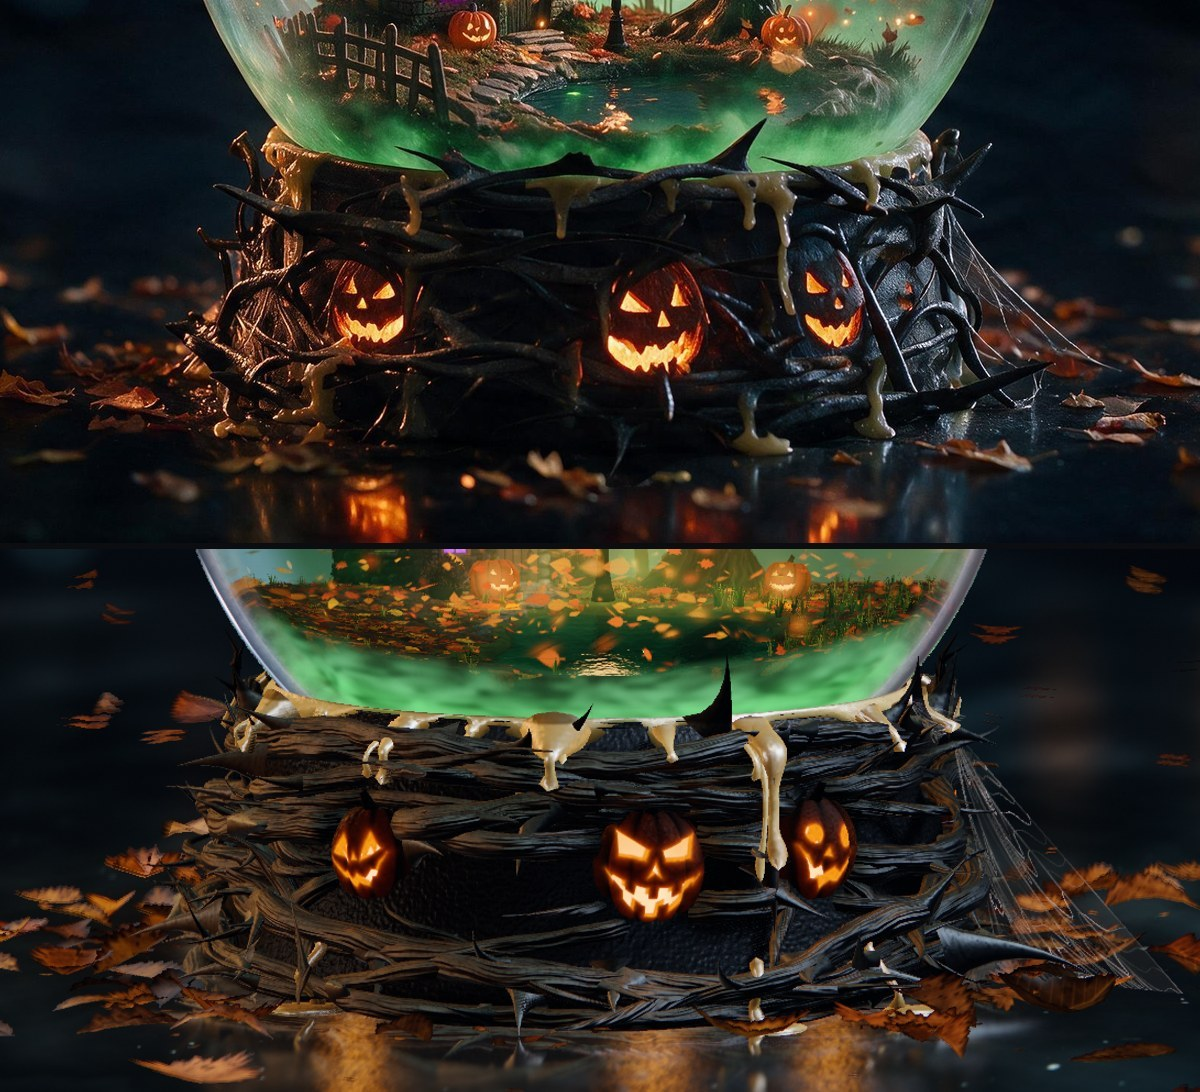
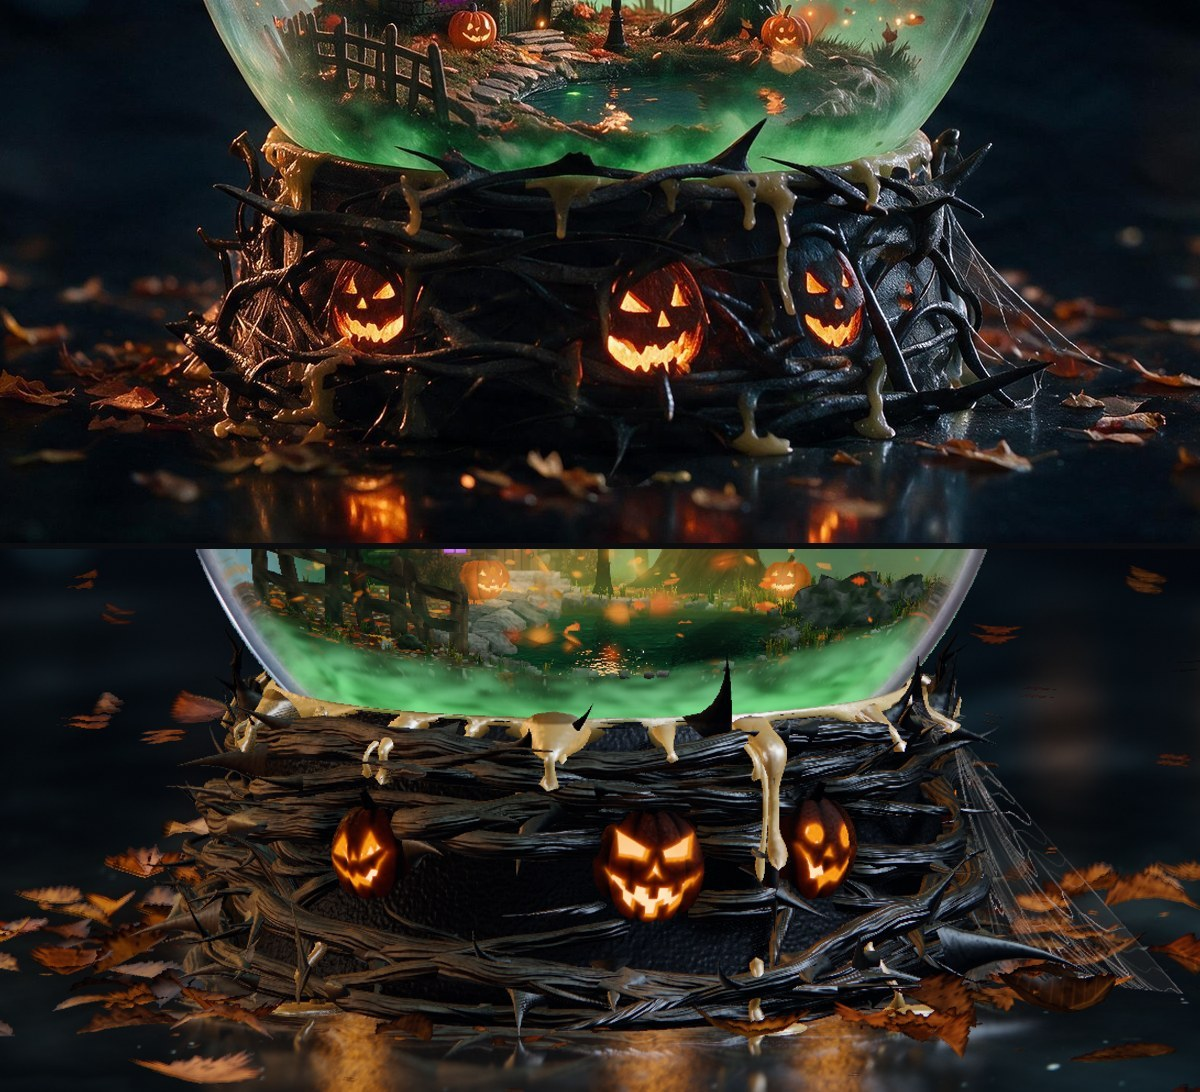
Looks, REPORT.md and HANDOVER.md at 0e36e95

diff --git a/REPORT.md b/REPORT.md
@@ -1,6 +1,6 @@
-# REPORT: fall base and slab (fall_base2), 05:33 UTC
+# REPORT: fall base and slab (fall_base2), 05:47 UTC
 
-Branch `agent/p4-fall_base2`, last commit **a0e301d** (pushed 05:21). In the freeze of 05:20: **15ecc57**. Looks branch `agent/p4-fall_base2-looks`.
+Branch `agent/p4-fall_base2`, last commit **0e36e95** (pushed 05:44; holds 9d9cfbe and a merge of origin/main). In the freeze of 05:20: **15ecc57**; a0e301d and 9d9cfbe came after it. Looks branch `agent/p4-fall_base2-looks`.
 Make targets, in order: `npm run make -- base-fall`, `npm run make -- slab-fall`, `npm run texpack`, `npm run build`.
 
 No stand-ins and no fallbacks in my files. No generated picture, no outside file: everything in `base-fall` and `slab-fall` is made by the scripts in `assets-src/`, so there are no rows for `ASSETS.md`.
@@ -13,7 +13,7 @@ One fault: merge commit 15ecc57 carries git's default message without the `Co-au
 | Jury: three faces look like copies | fixed: four carvings, own turn, ribs, glow | 2b9d7f0 |
 | R1 #12 / R3-1 #7 / R3-2 #7 pumpkins: bright, bevel, deep cuts, bounce | fixed for brightness, bevel and cuts; bounce on branches raised (`baseCandle 3.6`) but not judged closely | 2b9d7f0, 69cf1fd |
 | R1 #11 regular weave, loops | fixed: straight level branches behind the pumpkins | 69cf1fd, 838c64f |
-| Jury "smooth tubular vines" | fixed in part: fibrous bark; now reads brown-grey and level, see open 1 | e7ab0b5 (in freeze), a0e301d (after) |
+| Jury "smooth tubular vines" | fixed in part: fibrous bark (in freeze), then darker with a glossy streak; still level, see open 1 | e7ab0b5 (in freeze), a0e301d, 9d9cfbe (after) |
 | R1 #11 / R3-2 #3 cobweb | fixed: finer strands, sag 1.1, glint | 69cf1fd |
 | R1 #10 / R3-2 #6 / R3-1 #3 wax | part: paler, glossier, teardrops draped over the crown branches, low puddles at the foot; still shorter and less glossy than approved | 2b9d7f0, 69cf1fd, 838c64f |
 | R3-1 #3 / R3-2 #4 seat of the glass | part: dark seating edge, dashes gone; no modelled channel | 838c64f, 04c2655 |
@@ -23,21 +23,21 @@ One fault: merge commit 15ecc57 carries git's default message without the `Co-au
 | G15 triangles | inside all three limits, see Measured | 2b9d7f0 to 838c64f |
 
 ## Measured
-- My triangles at a0e301d (texpack report): high 89,572 (base 83,992 + slab 5,580), medium 83,822 (78,242 + 5,580), low 58,558 (52,978 + 5,580). G15 limits 120,449 / 86,644 / 59,953. At 216e427 they were 126,788 / 111,082 / 71,373.
+- My triangles at 0e36e95 (texpack report): high 89,572 (base 83,992 + slab 5,580), medium 83,822 (78,242 + 5,580), low 58,558 (52,978 + 5,580). G15 limits 120,449 / 86,644 / 59,953. At 216e427 they were 126,788 / 111,082 / 71,373.
 - Base mesh: iron 59,010 (drum and seat 7,416), pumpkins 13,794 in 7 faces, wax 10,270 in 29 runs, web 918.
 - Season drawn, `node out/work/bin/tris.mjs fall` at 05:12 on 04c2655 plus the bark paint (same meshes): high 1,661,337 of 1,800,000; medium 983,430 of 1,100,000; low 466,838 of 600,000.
 - Bytes of my 7 files in `public/assets/fall`: 2,775,501 = 2.647 MiB.
 - `npm run measure -- --unit fall --only M1,M2,M3,M6 --tier draft` on 04c2655 (05:06): stopped at the chunk budget with 16 of 19 lines; M1, M2, M6 pass on rest, shake, interior, base, surface; M2 0 soft pixels on all five; M6 2 of 102,000 inside a solid on fall-shake; M3 fall-rest FAIL 0.380 (base 0.557, miniature 0.380, threshold 0.75).
-- `--only M3` on 15ecc57 (05:17): base 0.666, miniature 0.380. On a0e301d (05:20): base **0.791**, miniature 0.380; the line stays red on the miniature.
-- `npm run determinism` on a0e301d (05:27): `determinism: pass · 3 pictures, 4 page loads, preview, draft, 354 s`.
-- `npx tsc --noEmit` clean; `npx vitest run`: 432 passed, 4 skipped (on a0e301d, and on 15ecc57 after making all four targets again).
-- Fit, box 620,860,2220,1584, mean difference per channel at a0e301d: 36.0, 28.7, 22.8.
+- `--only M3` on 15ecc57 (05:17): base 0.666, miniature 0.380. On a0e301d (05:20): base 0.791. On 9d9cfbe before the merge of main (05:36): base **1.039**, miniature 0.380; the line stays red on the miniature. Not measured again after the merge.
+- `npm run determinism` on a0e301d (05:27): pass. Again on the merged head 0e36e95 (05:44): `determinism: pass · 3 pictures, 4 page loads, preview, draft, 357 s`.
+- `npx tsc --noEmit` clean; `npx vitest run`: 432 passed, 4 skipped (on 0e36e95 after making all four targets again; the same on a0e301d and 15ecc57).
+- Fit, box 620,860,2220,1584, mean difference per channel at 0e36e95: 35.8, 29.2, 23.3 (a0e301d: 36.0, 28.7, 22.8).
 
 ## Looks
-base-fall 35 of 40 (the predecessor reported 39 and 32 of its own), slab-fall 8 of 40. All `--tier draft --format hd`.
+base-fall 39 of 40 (the predecessor reported 39 and 32 of its own), slab-fall 8 of 40. All `--tier draft --format hd`.
 
 ## Still wrong, worst first
-See `HANDOVER.md`, "Open, worst first": level brown-grey branches; wax shorter and less glossy; side pumpkins a little small; no modelled channel at the seat; right pumpkin half hidden by wax from the low camera; reflections cut by the frame; no grey leather; base about 5% tall in frame.
+See `HANDOVER.md`, "Open, worst first": level branches, browner at left than approved; wax shorter and less glossy; side pumpkins a little small; no modelled channel at the seat; right pumpkin half hidden by wax from the low camera; reflections cut by the frame; no grey leather; base about 5% tall in frame.
 
 ## Constants and pitfalls
 In `HANDOVER.md`.

diff --git a/HANDOVER.md b/HANDOVER.md
@@ -1,6 +1,6 @@
-# HANDOVER: fall base and slab (fall_base2), 05:33 UTC
+# HANDOVER: fall base and slab (fall_base2), 05:47 UTC
 
-Start from `origin/main` plus `agent/p4-fall_base2` at **a0e301d**. The freeze of 05:20 took **15ecc57**; a0e301d (pushed 05:21) is one shader commit later and is NOT in Rounds 11 to 13.
+Start from `origin/main` plus `agent/p4-fall_base2` at **0e36e95**. The freeze of 05:20 took **15ecc57**; a0e301d (05:21) and 9d9cfbe (in 0e36e95, 05:44) are two shader commits later and are NOT in Rounds 11 to 13. The judged build has the lighter, less fibrous bark of e7ab0b5.
 
 ## Files
 - `assets-src/base-fall/`: `build.mjs`, `layout.mjs` (sizes, faces, `TWIGS`, `CROWN`), `maps.mjs` (the four carvings `DESIGNS`, `grin()`), `mesh.mjs` (drum, branches, thorns, pumpkins, wax, web), `lib.mjs`, `RECIPE.md`
@@ -11,7 +11,7 @@ Start from `origin/main` plus `agent/p4-fall_base2` at **a0e301d**. The freeze o
 - Make targets, in this order: `npm run make -- base-fall`, `npm run make -- slab-fall`, `npm run texpack`, `npm run build`.
 
 ## Open, worst first
-1. **Branches read as a level, brown-grey straw nest, most from the low camera** (looks 02). Approved: near-black glossy vines that cross each other. The fibres were deepened in e7ab0b5 and a0e301d to get the base part of M3 over 0.75 and to answer "smooth tubular vines"; they did that (0.557 -> 0.666 -> 0.791) but lightened the read. Not tried: a darker bark albedo with the same fibre contrast; a thin glossy streak along each branch (line ~255 of `base.ts`, the `pow(ironKh, 16.0)` lobe) as the source of high frequency instead of albedo; crossing branches (slope is `r(5,19)` degrees in `mesh.mjs`, raising it brought back a regular weave, which the critics named).
+1. **Branches lie level like a bundle, most from the low camera** (looks 02), and stay brown at left in the warm light. Approved: near-black glossy vines that cross each other. The fibres were deepened in e7ab0b5 and a0e301d to get the base part of M3 over 0.75 and to answer "smooth tubular vines"; they did that (0.557 -> 0.666 -> 0.791) but read as straw; 9d9cfbe then darkened the bark by about a third (`(0.12 + 1.5 * fibre) * 0.9`) and added a tight streak of the key (`0.5 * pow(ironKh, 60.0)`, line ~255 of `base.ts`), base part 1.039. Not tried: crossing branches (slope is `r(5,19)` degrees in `mesh.mjs`, raising it brought back a regular weave, which the critics named).
 2. **Wax shorter and less glossy than the approved long runs.** Now draped teardrops off the collar (29 runs, 10,270 triangles). Free hanging tubes read as pegs, so every run rides on the branches (`ride`). Tried: longer runs (they cross the faces), stronger key lobe (turns chalk white). Gloss is `roughness 0.14 to 0.28`, lobes `pow 120`, `1.6 * pow 90 + 0.2 * pow 14`.
 3. **Side pumpkins a little smaller than approved** (by eye on the pair; 12.6 mm against 15.4 was read before the last widening, not read again since). The branches give way inside `smooth(1.22, 0.95, ...)` of each face (`mesh.mjs` line 207); wider than that opens a bare ring round the face.
 4. **Seat of the glass** is a wax rim with a dark upper edge (`smoothstep(39.7, 39.25)` in the wax paint, `smoothstep(39.6, 38.9)` in the iron), not a modelled channel. The dashes along it are gone since 04c2655 (wax kept outside the collar bead).
@@ -24,6 +24,7 @@ Start from `origin/main` plus `agent/p4-fall_base2` at **a0e301d**. The freeze o
 - Faces: turns `[-9,4,11,-6,8,-12,5]` degrees, ribs `[4.5,5.5,4,5,4.5,6,5]`, bevel 0.03, `uFaceRind 0.2`, `baseCandle 3.6`.
 - Candles: `catchSeconds [0.2, 0.04, 0.1, 0.6, 1.9, 0.3, 1.0]`, `takeSeconds [0.44, 0.2, 0.34, 1.1, 2.5, 0.8, 1.6]`. The three seen faces must all be alight at `states.landedSeconds` (0.5 s) because the judged fall-shake still is taken there and approved shows all three lit; change_builder's slower lines (04:37) were not used for that reason.
 - Branches: 30 + 3 level ones at face height, radius `r(1.5,2.5)`, thorns every 42 with length 7 to 13; 44 strands, 132 thorns, 27 refused for crossing a face or the slab.
+- Bark at the head (9d9cfbe): fibres as at a0e301d, colour `(0.12 + 1.5 * fibre) * 0.9`, key lobes `(0.2 * pow(ironKh, 16.0) + 0.5 * pow(ironKh, 60.0)) * (0.2 + 1.3 * fibre)`.
 - Bark fibres (a0e301d): three runs weighted 0.42 / 0.3 / 0.28 at scales 1, (2.3, 3.1), (4.1, 6.3); colour `(0.2 + 1.6 * fibre) * 1.2`; normal tilt 4.2. At e7ab0b5 / 15ecc57: 0.5 / 0.3 / 0.2, `(0.3 + 1.4 * fibre) * 1.2`, tilt 3.0.
 - Wax: top row at 39.62, `inner` never inside the bead, colour (0.92,0.8,0.5) to (0.8,0.52,0.2).
 - Slab: 130 near leaves of 5.2 to 9.6 mm, 110 crumbs, 120 far leaves.
@@ -38,6 +39,7 @@ Start from `origin/main` plus `agent/p4-fall_base2` at **a0e301d**. The freeze o
 ## What I could not see
 - Nothing at tier high or at 4k: every look was `--tier draft --format hd`.
 - The `surface` camera (critics' fall-surface) and the `interior` camera at the head: last looked at before 838c64f.
-- The landed state at the head: last landed look was at 04c2655, before the two fibre commits.
+- The landed and settled states at the head: last landed look at 04c2655, settled at a0e301d, both before the darker bark.
+- M3 after the merge of main into 0e36e95: 1.039 was read one commit before the merge.
 - The motion of the candles as a film: `faceLevel` was checked by its values at 0.5 s (0.54 / 0.84 / 0.75) and on the landed still, never as a clip.
 - M1, M2, M6 at the head: measured at 04c2655 (same meshes, older bark paint).
